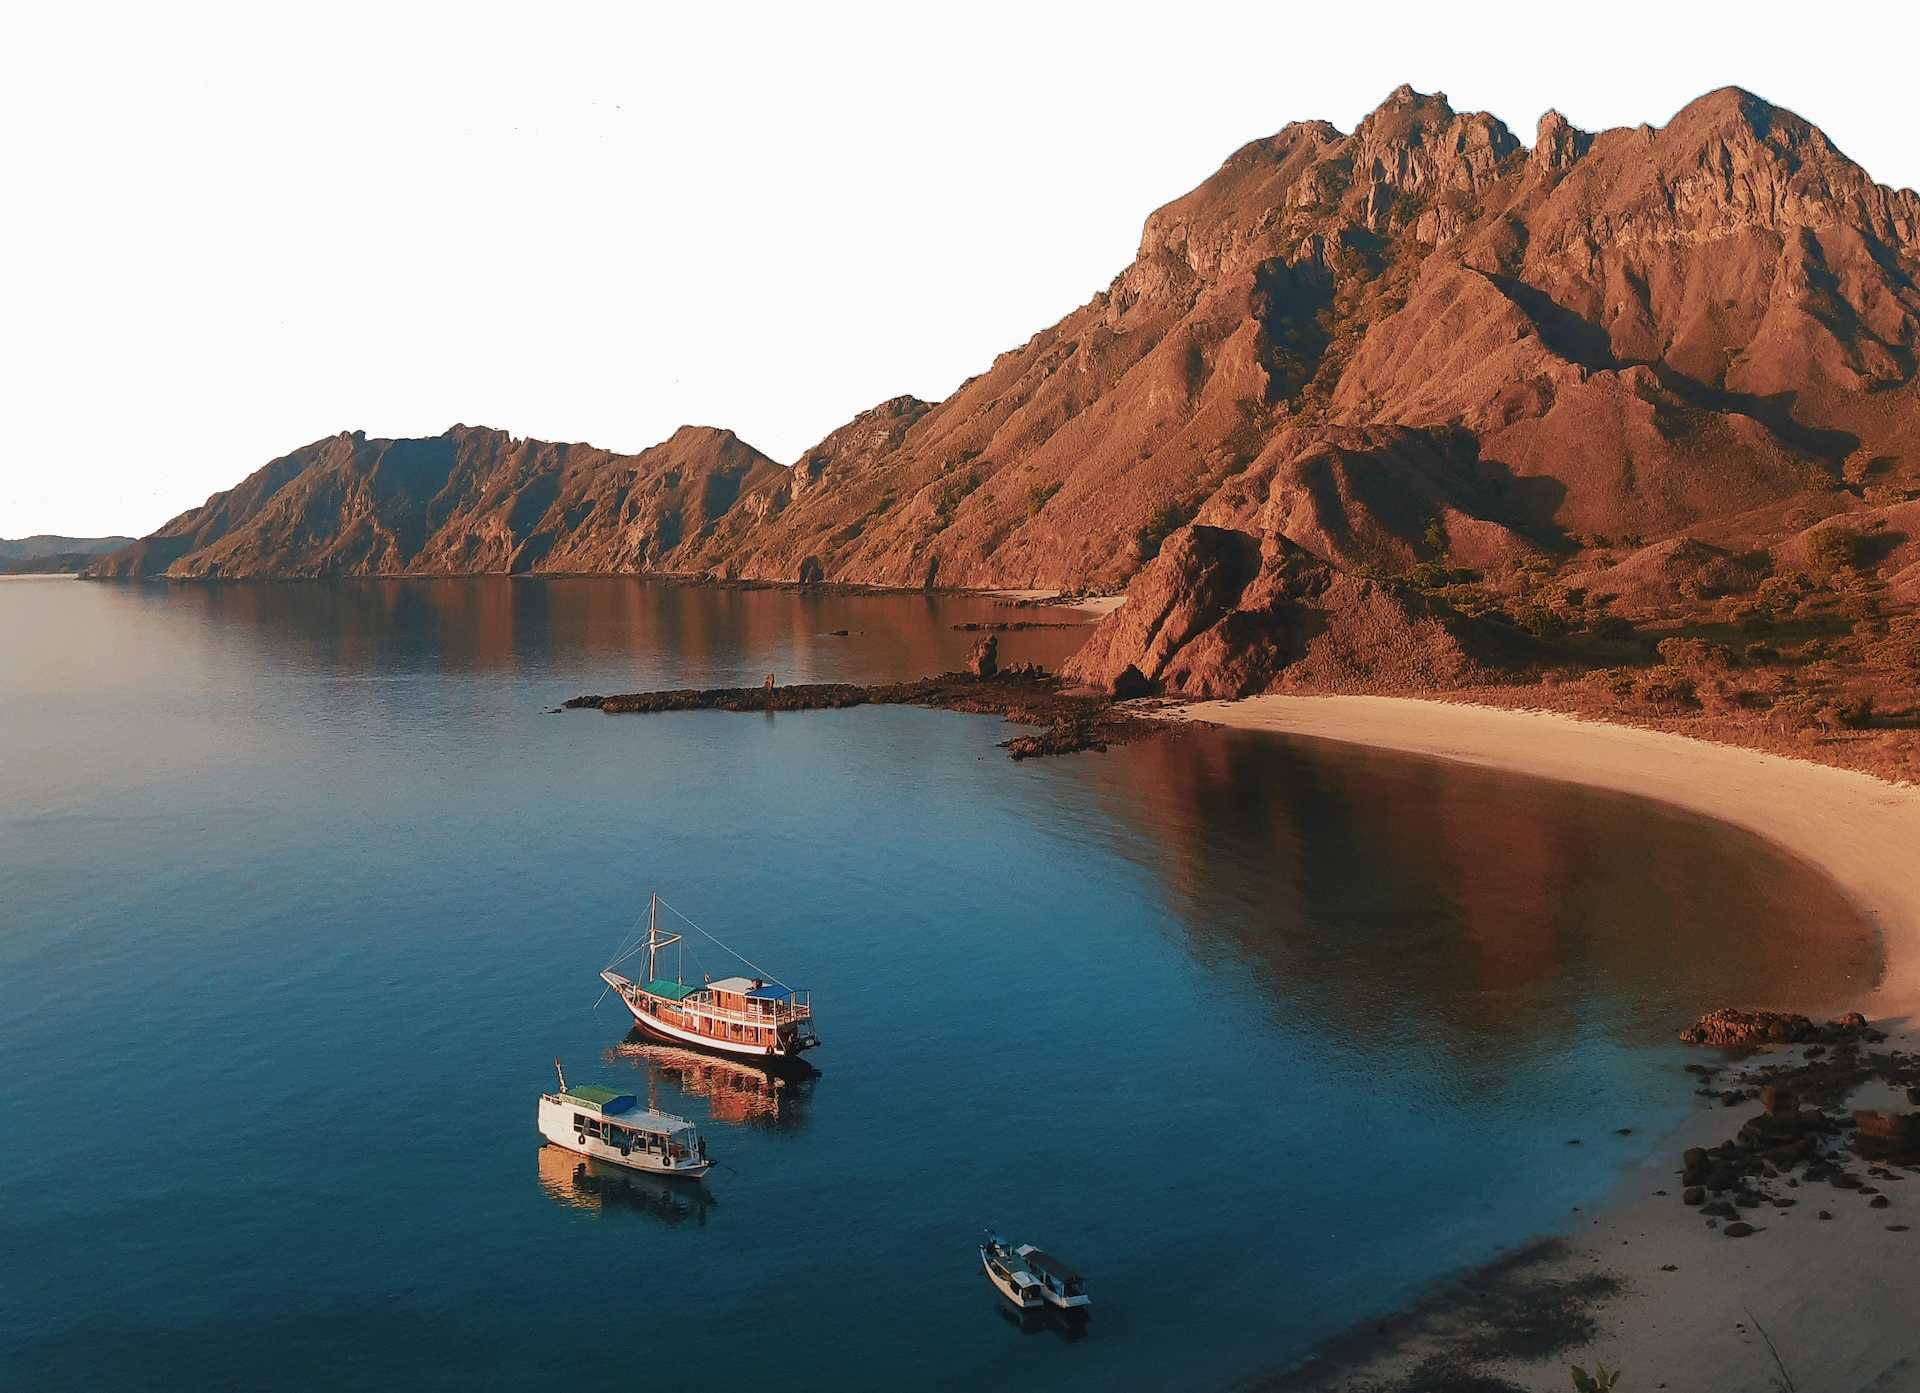
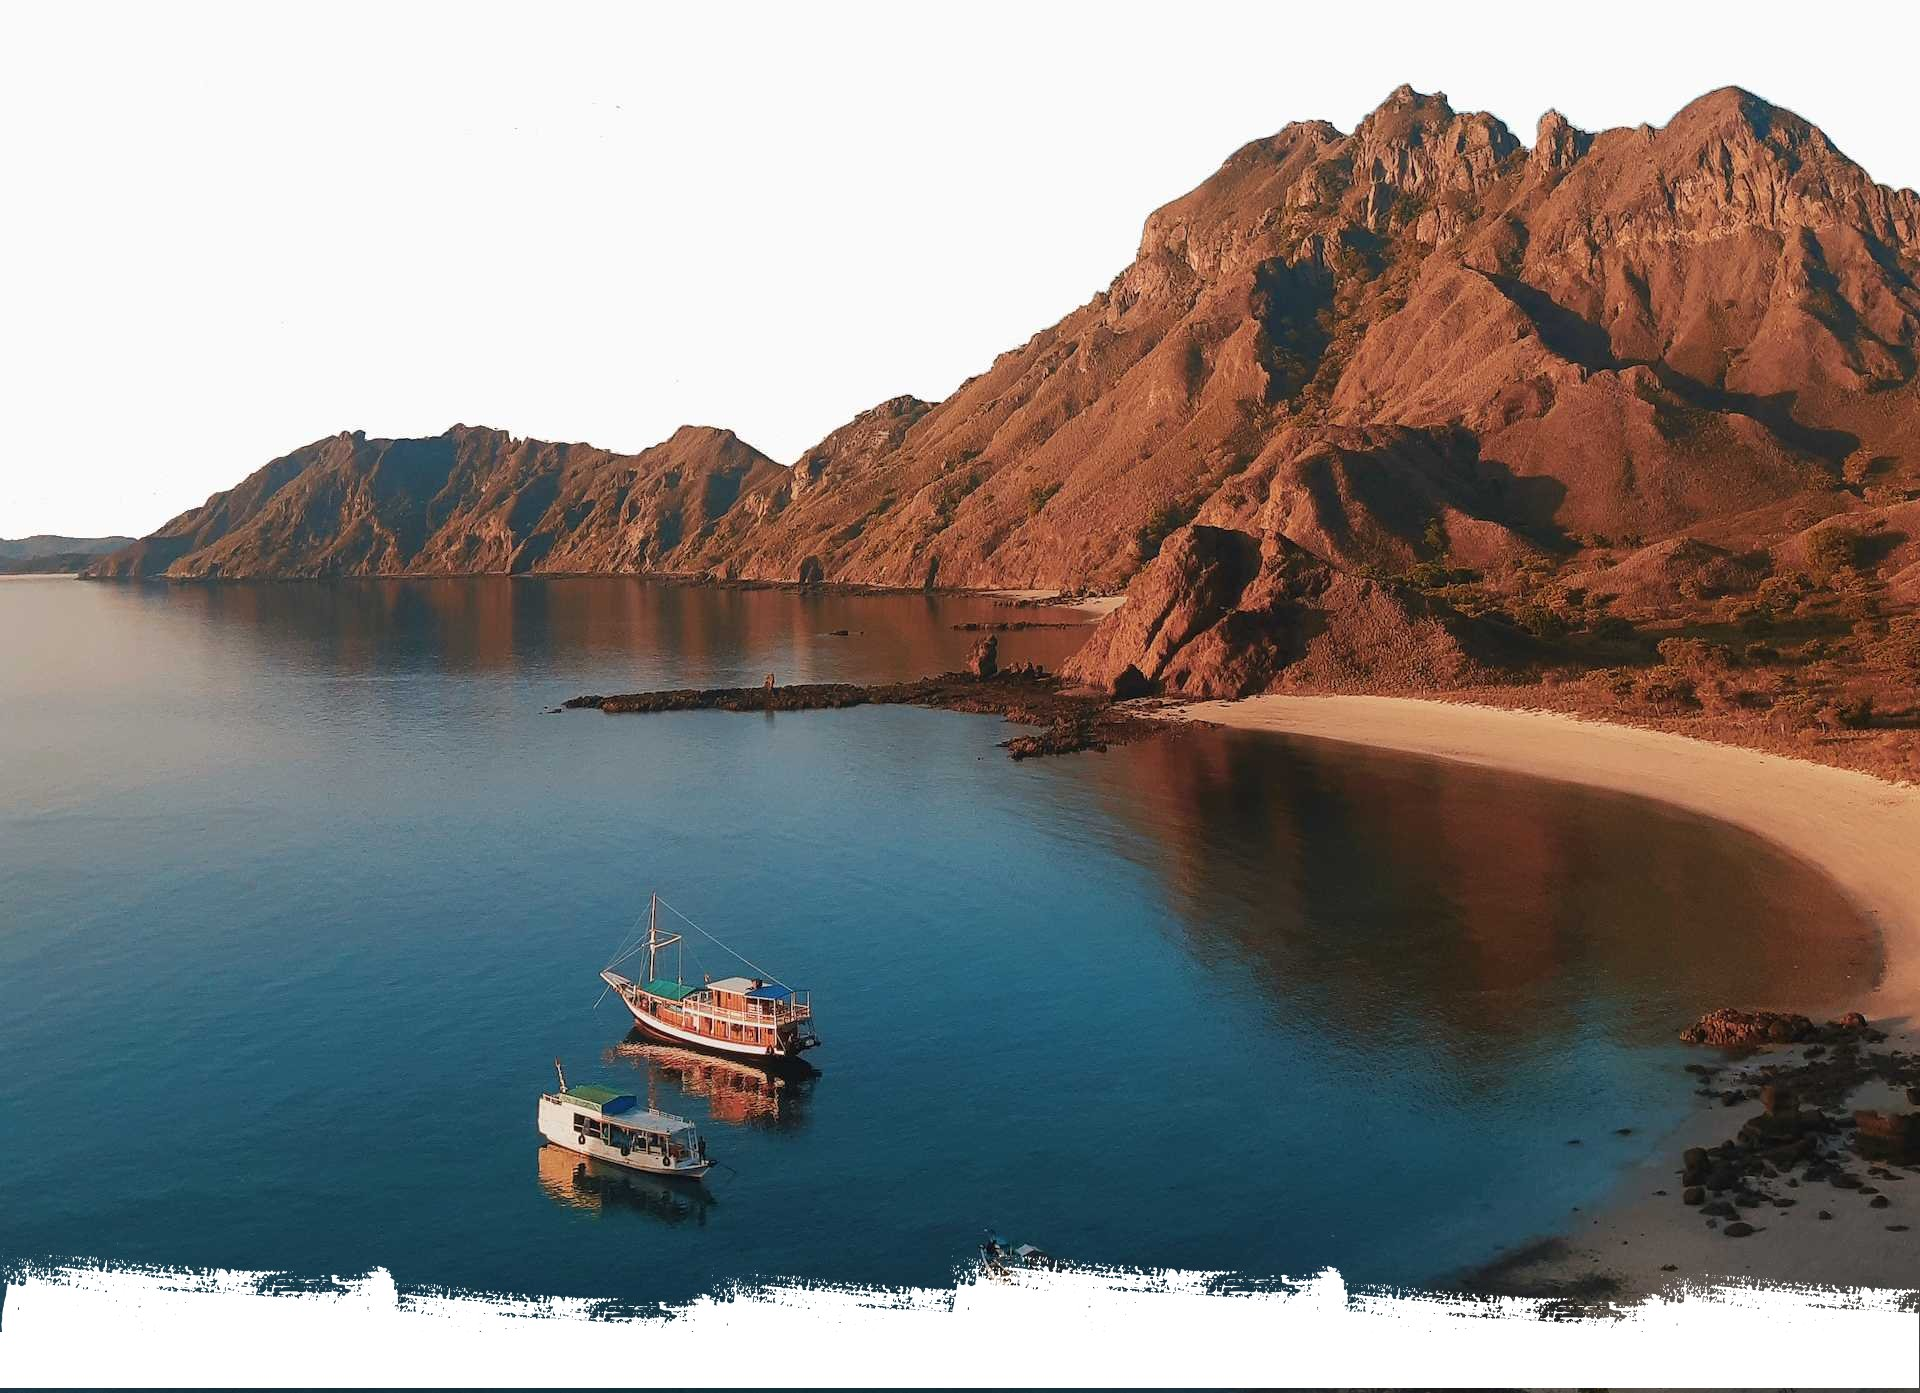
update

Changed region(s): [[0.0, 0.8952, 1.0, 1.0]]

diff --git a/index.html b/index.html
@@ -89,7 +89,6 @@
         </div>
       </div>
     </div>
-    <img src="images/homebanner-after.png" alt="homebanner-after" class="img-fluid homebanner-down">
   </div>
   <!-- site toptext done -->
 
@@ -106,7 +105,46 @@
             <div class="homecard-content">
               <h3>MGM Grand Hotel</h3>
               <div class="primary-btn">
-                <a href="#" target="_blank">View More</a>
+                <a href="https://mgmgrand.mgmresorts.com/en.html " target="_blank">View More</a>
+              </div>
+            </div>
+          </div>
+        </div>
+        <div class="col-lg-3 col-md-6 col-sm-12">
+          <div class="homecard-main">
+            <div class="homecard-picture">
+              <img src="images/homecard1.jpg" alt="homecard1" class="img-fluid">
+            </div>
+            <div class="homecard-content">
+              <h3>Caesars-Palace</h3>
+              <div class="primary-btn">
+                <a href="https://www.caesars.com/caesars-palace " target="_blank">View More</a>
+              </div>
+            </div>
+          </div>
+        </div>
+        <div class="col-lg-3 col-md-6 col-sm-12">
+          <div class="homecard-main">
+            <div class="homecard-picture">
+              <img src="images/homecard1.jpg" alt="homecard1" class="img-fluid">
+            </div>
+            <div class="homecard-content">
+              <h3>Bellagio Resorts</h3>
+              <div class="primary-btn">
+                <a href="https://bellagio.mgmresorts.com/en.html " target="_blank">View More</a>
+              </div>
+            </div>
+          </div>
+        </div>
+        <div class="col-lg-3 col-md-6 col-sm-12">
+          <div class="homecard-main">
+            <div class="homecard-picture">
+              <img src="images/homecard1.jpg" alt="homecard1" class="img-fluid">
+            </div>
+            <div class="homecard-content">
+              <h3>Wynnlasvegas</h3>
+              <div class="primary-btn">
+                <a href="https://www.wynnlasvegas.com/ " target="_blank">View More</a>
               </div>
             </div>
           </div>
@@ -115,6 +153,107 @@
     </div>
   </div>
   <!-- site homecard done -->
+
+  <!-- site toptext start -->
+  <div class="toptext">
+    <div class="container">
+      <div class="row">
+        <div class="col-12">
+          <div class="toptext-content">
+            <p>We take pride in promoting the best dining options in Las Vegas. With such a vast selection of foods
+              options and restaurants this comprehensive list is reviewed and updated regularly. Las Vegas marries a
+              combination of all the best foods from italian to chinese, from indian to french cuisine despite your
+              preference your taste buds are sure to be fulfilled.
+            </p>
+          </div>
+        </div>
+      </div>
+    </div>
+  </div>
+  <!-- site toptext done -->
+
+  <!-- site homecard start -->
+  <div class="homecard">
+    <div class="container">
+      <h2 class="title text-center">Restaurants in Las Vegas</h2>
+      <div class="row">
+        <div class="col-lg-3 col-md-6 col-sm-12">
+          <div class="homecard-main">
+            <div class="homecard-picture">
+              <img src="images/homecard1.jpg" alt="homecard1" class="img-fluid">
+            </div>
+            <div class="homecard-content">
+              <h3>Bellagio Resorts</h3>
+              <div class="primary-btn">
+                <a href="https://bellagio.mgmresorts.com/en/restaurants/le-cirque.html 
+                " target="_blank">View More</a>
+              </div>
+            </div>
+          </div>
+        </div>
+        <div class="col-lg-3 col-md-6 col-sm-12">
+          <div class="homecard-main">
+            <div class="homecard-picture">
+              <img src="images/homecard1.jpg" alt="homecard1" class="img-fluid">
+            </div>
+            <div class="homecard-content">
+              <h3>Cosmopolitan lasvegas</h3>
+              <div class="primary-btn">
+                <a href="https://www.cosmopolitanlasvegas.com/restaurants/e" target="_blank">View More</a>
+              </div>
+            </div>
+          </div>
+        </div>
+        <div class="col-lg-3 col-md-6 col-sm-12">
+          <div class="homecard-main">
+            <div class="homecard-picture">
+              <img src="images/homecard1.jpg" alt="homecard1" class="img-fluid">
+            </div>
+            <div class="homecard-content">
+              <h3>Wynnlasvegas Steakhouse</h3>
+              <div class="primary-btn">
+                <a href="https://www.wynnlasvegas.com/dining/fine-dining/sw-steakhouse" target="_blank">View More</a>
+              </div>
+            </div>
+          </div>
+        </div>
+        <div class="col-lg-3 col-md-6 col-sm-12">
+          <div class="homecard-main">
+            <div class="homecard-picture">
+              <img src="images/homecard1.jpg" alt="homecard1" class="img-fluid">
+            </div>
+            <div class="homecard-content">
+              <h3>Wynnlasvegas Mizumi</h3>
+              <div class="primary-btn">
+                <a href="https://www.wynnlasvegas.com/dining/fine-dining/mizumi " target="_blank">View More</a>
+              </div>
+            </div>
+          </div>
+        </div>
+      </div>
+    </div>
+  </div>
+  <!-- site homecard done -->
+
+  <!-- site toptext start -->
+  <div class="toptext">
+    <div class="container">
+      <div class="row">
+        <div class="col-12">
+          <div class="toptext-content">
+            <p>We work in partnership with leading hospitality and entertainment companies in Las Vegas ensuring you
+              receive the most lucrative offers and best comparisons available. If you have any questions, advice, or
+              feedback on our chosen list of recommendations we highly recommend you get in touch with our team of eagor
+              travel experts. Our friendly, skilled and knowledgeable customer service team is available 24/7 to assist
+              with all your relevant inquiries and needs. Please complete the online information leaflet on the “contact
+              us” page and we will ensure an urgent response.
+            </p>
+          </div>
+        </div>
+      </div>
+    </div>
+  </div>
+  <!-- site toptext done -->
 
   <!-- site footer start -->
   <div class="footer">

diff --git a/scss/responsive.scss b/scss/responsive.scss
@@ -42,7 +42,7 @@
         right: 0;
         bottom: 0;
         width: 300px;
-        background: $clr-black;
+        background: $clr-brown;
         transition: 0.4s cubic-bezier(0, 0, 0.13, 0.61);
         transform: translateX(-100%);
     }
@@ -106,11 +106,11 @@
         max-width: 20rem;
     }
 
-        .site-nav ul {
-            display: flex !important;
-            flex-direction: column;
-            align-items: baseline;
-        }
+    .site-nav ul {
+        display: flex !important;
+        flex-direction: column;
+        align-items: baseline;
+    }
 
     .site-nav li a {
         font-size: 17px;
@@ -179,9 +179,10 @@
             opacity: 0.7;
         }
     }
+
     nav.site-nav {
-         max-width: unset; 
-        margin:unset; 
+        max-width: unset;
+        margin: unset;
     }
 }
 

diff --git a/scss/style.scss b/scss/style.scss
@@ -65,7 +65,7 @@ header.site-header {
 }
 
 header.site-header.sticky {
-    background: $clr-black;
+    background: $clr-brown;
     animation: 500ms ease-in-out 0s normal none 1 running fadeInDown;
     padding: 10px 0;
     position: fixed;
@@ -215,11 +215,11 @@ section.banner {
 /*homebanner-css-start*/
 .homebanner.banner {
     background-image: url(../images/homebanner.png);
-    height: 600px;
+    height: 860px;
     position: relative;
 
     &::after {
-        height: 600px;
+        content: none;
     }
 }
 
@@ -236,12 +236,6 @@ section.banner {
     position: relative;
 }
 
-img.img-fluid.homebanner-down {
-    position: absolute;
-    top: -27%;
-    width: 100%;
-    transform: translateY(-27%);
-}
 
 /*homebanner-css-end*/
 /*# sourceMappingURL=style.css.map */

diff --git a/css/style.css b/css/style.css
@@ -128,7 +128,7 @@ header.site-header {
 }
 
 header.site-header.sticky {
-  background: #0C0B0B;
+  background: #271910;
   animation: 500ms ease-in-out 0s normal none 1 running fadeInDown;
   padding: 10px 0;
   position: fixed;
@@ -250,11 +250,11 @@ section.banner {
 /*homebanner-css-start*/
 .homebanner.banner {
   background-image: url(../images/homebanner.png);
-  height: 600px;
+  height: 860px;
   position: relative;
 }
 .homebanner.banner::after {
-  height: 600px;
+  content: none;
 }
 
 .homecard-content {
@@ -268,13 +268,6 @@ section.banner {
 
 .toptext {
   position: relative;
-}
-
-img.img-fluid.homebanner-down {
-  position: absolute;
-  top: -27%;
-  width: 100%;
-  transform: translateY(-27%);
 }
 
 /*homebanner-css-end*/

diff --git a/css/responsive.css b/css/responsive.css
@@ -100,7 +100,7 @@ h2 {
     right: 0;
     bottom: 0;
     width: 300px;
-    background: #0C0B0B;
+    background: #271910;
     transition: 0.4s cubic-bezier(0, 0, 0.13, 0.61);
     transform: translateX(-100%);
   }

diff --git a/scss/_variables.scss b/scss/_variables.scss
@@ -1,7 +1,6 @@
 $clr-white: #fff;
-$clr-black: #0C0B0B;
+$clr-brown: #271910;
 $clr-blackish: #121212;
 $clr-grey: #b4b2b2;
 $clr-orange: #ff6704;
-$clr-blue: #0064d3;
 $clr-pista: #f2fbe9;
